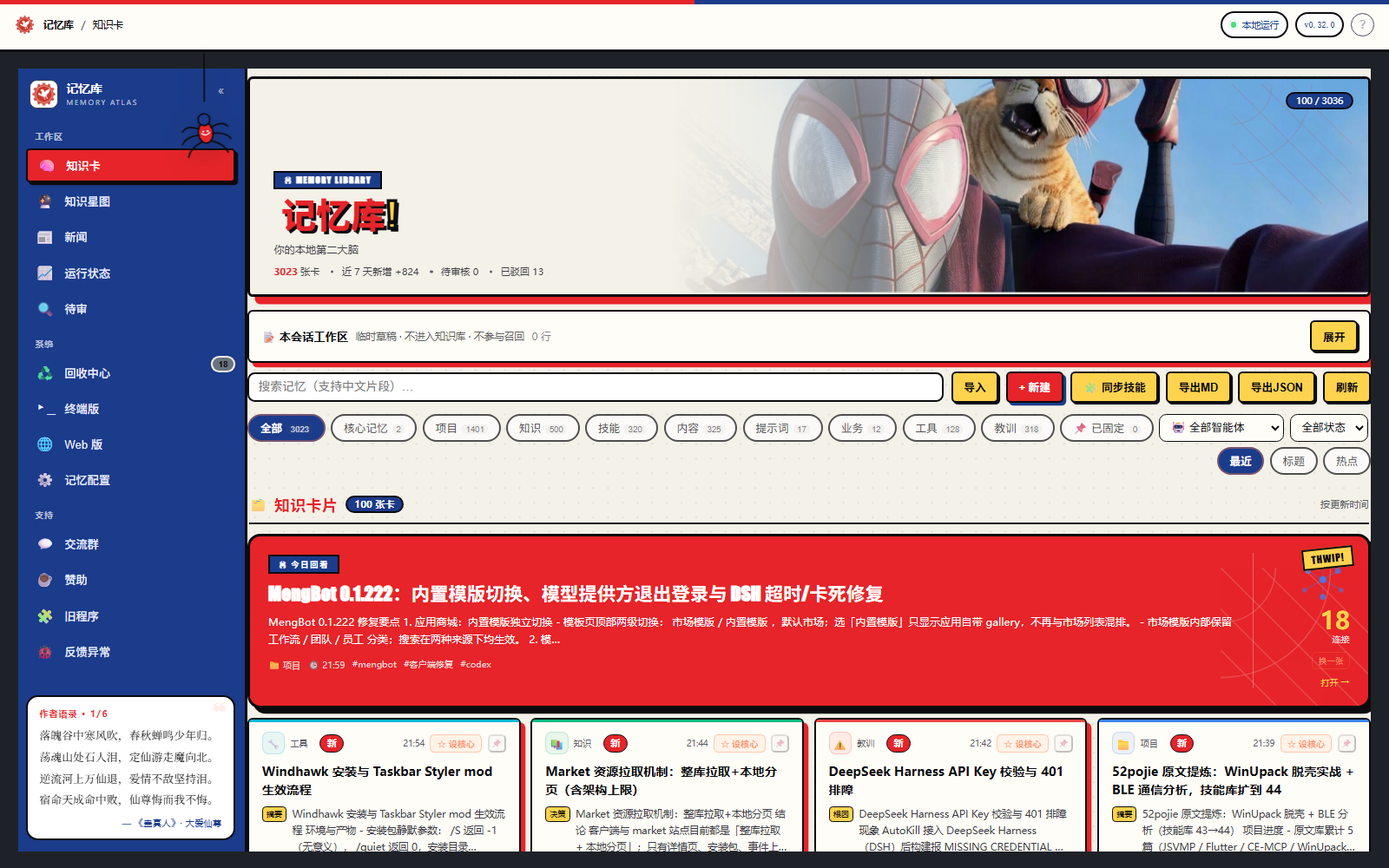
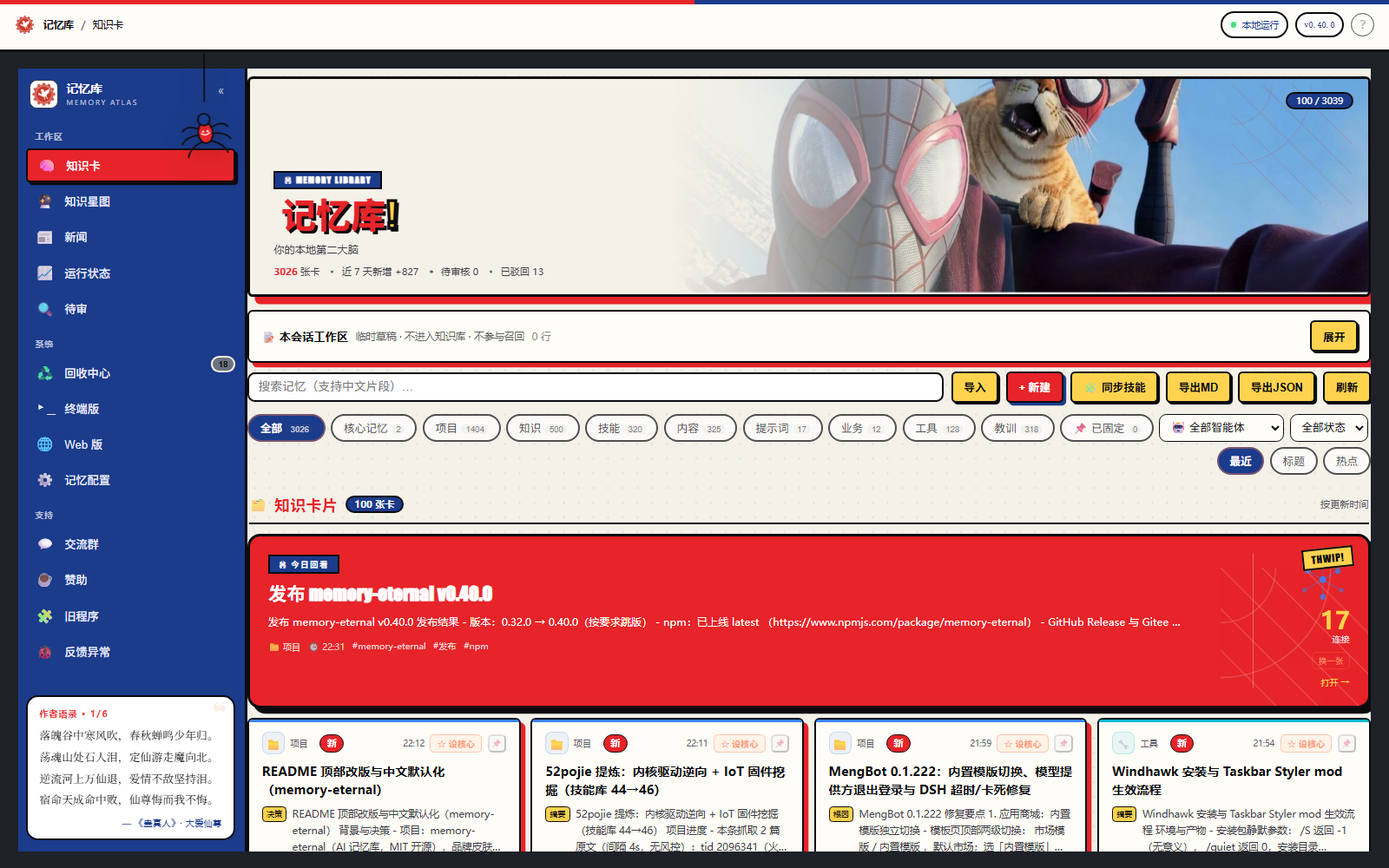
fix(watchdog): 版本一致但看门狗丢失时自动补托管 (#63) + v0.40.1

diff --git a/lib/client.js b/lib/client.js
@@ -2120,7 +2120,7 @@ Option A, because:
 [data-skin="light"] .mc-v5-star:hover, [data-skin="light"] .mc-v5-help:hover { color: #b91c1c; border-color: #cfcfca; }
 [data-skin="pop"] .mc-v5-star:hover, [data-skin="pop"] .mc-v5-help:hover { color: var(--pop-red); border-color: var(--pop-ink); }
 
-`;function Yo(a){a.effect(()=>a.locale.register(dt,{zh:ao,en:to}),"memory-eternal: locale");let t=a.locale.bind(dt);a.effect(()=>a.slots.inject("settings.section",()=>a.slots.register({name:"settings.section",id:dt,order:25,label:()=>t("nav"),locale:dt,inject:()=>({})},()=>r.default.createElement(ar,{t}))),"memory-eternal: settings section"),a.effect(()=>a.slots.inject("sidebar.footer.action",()=>a.slots.register({name:"sidebar.footer.action",id:`${dt}:footer`,order:100,label:()=>t("nav"),locale:dt,inject:()=>({})},n=>r.default.createElement(tr,{t,locale:a.locale,wide:!(n&&n.wide===!1)}))),"memory-eternal: sidebar footer action")}function er(){let[a,t]=(0,r.useState)(Q+"/ui/app");return(0,r.useEffect)(()=>{let n=!0,s=()=>fetch("/memory-eternal/api/web-info").then(i=>i.json()).then(i=>{n&&i&&i.ok&&i.alive!==!1&&i.url&&t(i.url.endsWith("/")?i.url:i.url+"/")}).catch(()=>{});return fetch(Q+"/ui/app",{method:"HEAD"}).then(i=>{if(n&&!i.ok)return s()}).catch(()=>n?s():void 0),()=>{n=!1}},[]),a}function ar({t:a}){return(0,e.jsxs)("div",{style:{display:"flex",flexDirection:"column",height:"100%",minHeight:0},children:[(0,e.jsx)("style",{children:va}),(0,e.jsx)(ro,{t:a,onReload:()=>{},version:0})]})}function tr({t:a,locale:t,wide:n}){let[s,i]=(0,r.useState)(!1);return(0,e.jsxs)("div",{className:`me-footer${n?"":" rail"}`,children:[(0,e.jsx)("style",{children:va}),(0,e.jsxs)("button",{type:"button",className:"me-footer-btn",onClick:()=>i(!0),"aria-label":a("nav"),title:a("nav"),children:[(0,e.jsx)("span",{className:"me-footer-ico","aria-hidden":"true",children:(0,e.jsx)(sr,{})}),(0,e.jsx)("span",{className:"me-footer-label",children:a("nav")})]}),s&&(0,e.jsx)(ir,{t:a,locale:t,onClose:()=>i(!1)})]})}function nr(){return(0,e.jsx)("svg",{viewBox:"0 0 16 16",fill:"none",stroke:"currentColor",strokeWidth:"1.4","aria-hidden":"true",children:(0,e.jsx)("rect",{x:"2.9",y:"2.9",width:"10.2",height:"10.2",rx:"1.7"})})}function or(){return(0,e.jsxs)("svg",{viewBox:"0 0 16 16",fill:"none",stroke:"currentColor",strokeWidth:"1.4","aria-hidden":"true",children:[(0,e.jsx)("rect",{x:"2.6",y:"5.4",width:"8",height:"8",rx:"1.5"}),(0,e.jsx)("path",{d:"M5.6 5.4V4.1c0-.9.7-1.6 1.6-1.6h4.7c.9 0 1.6.7 1.6 1.6v4.7c0 .9-.7 1.6-1.6 1.6h-1.3"})]})}function rr(){return(0,e.jsx)("svg",{viewBox:"0 0 16 16",fill:"none",stroke:"currentColor",strokeWidth:"1.4",strokeLinecap:"round","aria-hidden":"true",children:(0,e.jsx)("path",{d:"M3.9 3.9l8.2 8.2M12.1 3.9l-8.2 8.2"})})}function ir({t:a,locale:t,onClose:n,tab:s}){let[i,g]=(0,r.useState)(!1),[h,w]=(0,r.useState)(!1),x=(0,r.useRef)(null),N=er(),c=(0,r.useCallback)(T=>t&&typeof t.subscribe=="function"?t.subscribe(T):()=>{},[t]),y=(0,r.useCallback)(()=>t&&typeof t.getSnapshot=="function"?t.getSnapshot():null,[t]),k=(0,r.useSyncExternalStore)(c,y),M=k&&(k.active==="zh"||k.active==="en")?k.active:null,j=(0,r.useRef)(null);j.current===null&&M&&(j.current=M);let W=(0,r.useMemo)(()=>{let T=j.current?`lang=${j.current}`:"";if(s==="config")return`${Q}/ui/config?tab=config${T?`&${T}`:""}`;let B=N.replace(/\/$/,""),P=B.endsWith("/ui/app")?"?":"/?";return s?`${B}${P}tab=${s}${T?`&${T}`:""}`:T?`${B}${P}${T}`:N},[N,s]);(0,r.useEffect)(()=>{let T=x.current&&x.current.contentWindow;T&&M&&T.postMessage({source:"memory-eternal",type:"locale",lang:M},"*")},[M]),(0,r.useEffect)(()=>{let T=B=>{B.key==="Escape"&&n()};return window.addEventListener("keydown",T),()=>window.removeEventListener("keydown",T)},[n]);let q=(0,e.jsxs)("div",{className:"me-overlay-top",onClick:n,children:[(0,e.jsx)("style",{children:va}),(0,e.jsx)("div",{className:"me-modal"+(i?" me-modal-full":""),onClick:T=>T.stopPropagation(),children:(0,e.jsxs)("div",{style:{display:"flex",flexDirection:"column",height:"100%",minHeight:0,position:"relative"},children:[(0,e.jsxs)("div",{className:"me-wctl",children:[(0,e.jsx)("button",{type:"button",className:"me-wctl-btn","data-me-wctl":i?"restore":"full","aria-pressed":i,onClick:()=>g(T=>!T),"aria-label":a(i?"exitFullscreen":"enterFullscreen"),title:a(i?"exitFullscreen":"enterFullscreen"),children:i?(0,e.jsx)(or,{}):(0,e.jsx)(nr,{})}),(0,e.jsx)("button",{type:"button",className:"me-wctl-btn me-wctl-close","data-me-wctl":"close",onClick:n,"aria-label":a("close"),title:a("close"),children:(0,e.jsx)(rr,{})})]}),(0,e.jsx)("iframe",{ref:x,src:W,title:"memory-eternal",allow:"clipboard-write; clipboard-read",onLoad:()=>w(!0),style:{width:"100%",flex:1,border:0,borderRadius:"inherit",background:"transparent"}}),!h&&(0,e.jsxs)("div",{className:"me-frame-boot",role:"status","aria-live":"polite",children:[(0,e.jsx)(yt,{}),(0,e.jsx)("span",{className:"me-loading-text",children:a("loading")})]})]})})]});return typeof document>"u"?q:(0,eo.createPortal)(q,document.body)}function sr(){return(0,e.jsxs)("svg",{viewBox:"0 0 24 24","aria-hidden":"true",children:[(0,e.jsx)("defs",{children:(0,e.jsxs)("linearGradient",{id:"mg-brain",x1:"0",y1:"0",x2:"1",y2:"1",children:[(0,e.jsx)("stop",{offset:"0%",stopColor:"#FFC46B"}),(0,e.jsx)("stop",{offset:"50%",stopColor:"#F97316"}),(0,e.jsx)("stop",{offset:"100%",stopColor:"#EA580C"})]})}),(0,e.jsx)("path",{fill:"url(#mg-brain)",d:"M12 4.5a3.2 3.2 0 0 0-6.4.1 4.1 4.1 0 0 0-2.7 5.9 4.1 4.1 0 0 0 .6 6.7A4.2 4.2 0 0 0 12 18.2Z"}),(0,e.jsx)("path",{fill:"url(#mg-brain)",d:"M12 4.5a3.2 3.2 0 0 1 6.4.1 4.1 4.1 0 0 1 2.7 5.9 4.1 4.1 0 0 1-.6 6.7A4.2 4.2 0 0 1 12 18.2Z"}),(0,e.jsx)("path",{d:"M12 9.2c-.8-1.4-1.7-2-3.1-2.2M12 9.2c.8-1.4 1.7-2 3.1-2.2M12 12.4c-1.2 1-3.2 1.6-5 1.4M12 12.4c1.2 1 3.2 1.6 5 1.4M12 13.2v4",fill:"none",stroke:"rgba(255,255,255,0.62)",strokeWidth:"1",strokeLinecap:"round"}),(0,e.jsx)("circle",{cx:"12",cy:"8.6",r:"1.1",fill:"rgba(255,255,255,0.85)"})]})}var ct="0.40.0";function lr({t:a}){let[t,n]=(0,r.useState)(""),s="dsh-memory tui",i="dsh-memory tui --write",g=async(N,c)=>{try{await navigator.clipboard.writeText(N),n(c),setTimeout(()=>n(""),1600)}catch{}},h={border:"1px solid #3a404a",borderRadius:14,background:"#22262d",padding:"16px 18px"},w={margin:"10px 0 0",padding:"12px 14px",borderRadius:10,background:"#171a1f",border:"1px solid #333943",color:"#f3f5f8",fontSize:12.5,lineHeight:1.7,overflowX:"auto",fontFamily:"ui-monospace, Consolas, monospace"},x={marginTop:10,border:"1px solid #4a515c",background:"transparent",color:"#ffb08a",borderRadius:9,padding:"7px 12px",fontSize:12,cursor:"pointer"};return(0,e.jsxs)("div",{className:"mc-term-guide",style:{padding:"22px 26px 34px",maxWidth:1040,color:"#f3f5f8"},children:[(0,e.jsxs)("div",{style:{display:"flex",alignItems:"baseline",gap:12,flexWrap:"wrap"},children:[(0,e.jsx)("h2",{style:{margin:0,fontSize:24,letterSpacing:"-.02em"},children:a("terminalTitle")}),(0,e.jsx)("span",{style:{color:"#99a1ac",fontSize:12},children:"TUI \xB7 LIVE \xB7 dsh-tui"})]}),(0,e.jsx)("p",{style:{margin:"9px 0 20px",color:"#aeb5bf",fontSize:13.5,lineHeight:1.8},children:a("terminalIntro")}),(0,e.jsxs)("div",{className:"mc-term-grid",style:{display:"grid",gridTemplateColumns:"minmax(0, 1.1fr) minmax(0, .9fr)",gap:14},children:[(0,e.jsxs)("div",{className:"mc-term-card",style:h,children:[(0,e.jsxs)("div",{style:{fontSize:13,fontWeight:700},children:["\u25B8 ",a("terminalRun")]}),(0,e.jsx)("pre",{className:"mc-term-code",style:w,children:s}),(0,e.jsx)("button",{type:"button",className:"mc-term-btn",style:x,onClick:()=>g(s,"run"),children:t==="run"?"\u2713 "+a("terminalCopied"):"\u29C9 "+a("terminalCopy")}),(0,e.jsxs)("div",{style:{marginTop:12,color:"#99a1ac",fontSize:12,lineHeight:1.7},children:["\u9ED8\u8BA4\u8BFB\u53D6\u771F\u5B9E\u8BB0\u5FC6\u5E93\u4E0E\u5F85\u5BA1\u961F\u5217\uFF1B\u53EA\u8BFB\uFF0C\u786E\u8BA4\u540E\u624D\u7528 `--write`\u3002\u793A\u4F8B\u6570\u636E\u7528 `--demo`\u3002",(0,e.jsx)("br",{}),"\u6CA1\u6709 `dsh-memory` \u547D\u4EE4\u65F6\uFF1A`npx -p memory-eternal dsh-memory tui`"]})]}),(0,e.jsxs)("div",{className:"mc-term-card",style:h,children:[(0,e.jsxs)("div",{style:{fontSize:13,fontWeight:700},children:["\u25B8 ",a("terminalTui")]}),(0,e.jsx)("pre",{className:"mc-term-code",style:w,children:i}),(0,e.jsx)("button",{type:"button",className:"mc-term-btn",style:x,onClick:()=>g(i,"tui"),children:t==="tui"?"\u2713 "+a("terminalCopied"):"\u29C9 "+a("terminalCopy")}),(0,e.jsx)("div",{style:{marginTop:12,color:"#99a1ac",fontSize:12,lineHeight:1.7},children:"\u771F\u5B9E\u6279\u51C6/\u9A73\u56DE\uFF1B\u4E0D\u786E\u5B9A\u65F6\u5148\u7528\u53EA\u8BFB\u6A21\u5F0F\u3002"})]})]}),(0,e.jsxs)("div",{className:"mc-term-card",style:{...h,marginTop:14},children:[(0,e.jsxs)("div",{style:{fontSize:13,fontWeight:700},children:["\u25B8 ",a("terminalPreview")]}),(0,e.jsx)("pre",{className:"mc-term-code mc-term-preview",style:{...w,marginTop:10,color:"#d7dce3",fontSize:12,lineHeight:1.5},children:`\u256D\u2500 MEMORY ATLAS / \u5F85\u5BA1 \u2500\u2500\u2500\u2500\u2500\u2500\u2500\u2500\u2500\u2500\u2500\u2500\u2500\u2500\u2500\u2500\u2500\u2500\u2500\u2500\u2500\u2500\u2500\u2500\u2500\u2500\u2500\u2500\u2500\u256E
+`;function Yo(a){a.effect(()=>a.locale.register(dt,{zh:ao,en:to}),"memory-eternal: locale");let t=a.locale.bind(dt);a.effect(()=>a.slots.inject("settings.section",()=>a.slots.register({name:"settings.section",id:dt,order:25,label:()=>t("nav"),locale:dt,inject:()=>({})},()=>r.default.createElement(ar,{t}))),"memory-eternal: settings section"),a.effect(()=>a.slots.inject("sidebar.footer.action",()=>a.slots.register({name:"sidebar.footer.action",id:`${dt}:footer`,order:100,label:()=>t("nav"),locale:dt,inject:()=>({})},n=>r.default.createElement(tr,{t,locale:a.locale,wide:!(n&&n.wide===!1)}))),"memory-eternal: sidebar footer action")}function er(){let[a,t]=(0,r.useState)(Q+"/ui/app");return(0,r.useEffect)(()=>{let n=!0,s=()=>fetch("/memory-eternal/api/web-info").then(i=>i.json()).then(i=>{n&&i&&i.ok&&i.alive!==!1&&i.url&&t(i.url.endsWith("/")?i.url:i.url+"/")}).catch(()=>{});return fetch(Q+"/ui/app",{method:"HEAD"}).then(i=>{if(n&&!i.ok)return s()}).catch(()=>n?s():void 0),()=>{n=!1}},[]),a}function ar({t:a}){return(0,e.jsxs)("div",{style:{display:"flex",flexDirection:"column",height:"100%",minHeight:0},children:[(0,e.jsx)("style",{children:va}),(0,e.jsx)(ro,{t:a,onReload:()=>{},version:0})]})}function tr({t:a,locale:t,wide:n}){let[s,i]=(0,r.useState)(!1);return(0,e.jsxs)("div",{className:`me-footer${n?"":" rail"}`,children:[(0,e.jsx)("style",{children:va}),(0,e.jsxs)("button",{type:"button",className:"me-footer-btn",onClick:()=>i(!0),"aria-label":a("nav"),title:a("nav"),children:[(0,e.jsx)("span",{className:"me-footer-ico","aria-hidden":"true",children:(0,e.jsx)(sr,{})}),(0,e.jsx)("span",{className:"me-footer-label",children:a("nav")})]}),s&&(0,e.jsx)(ir,{t:a,locale:t,onClose:()=>i(!1)})]})}function nr(){return(0,e.jsx)("svg",{viewBox:"0 0 16 16",fill:"none",stroke:"currentColor",strokeWidth:"1.4","aria-hidden":"true",children:(0,e.jsx)("rect",{x:"2.9",y:"2.9",width:"10.2",height:"10.2",rx:"1.7"})})}function or(){return(0,e.jsxs)("svg",{viewBox:"0 0 16 16",fill:"none",stroke:"currentColor",strokeWidth:"1.4","aria-hidden":"true",children:[(0,e.jsx)("rect",{x:"2.6",y:"5.4",width:"8",height:"8",rx:"1.5"}),(0,e.jsx)("path",{d:"M5.6 5.4V4.1c0-.9.7-1.6 1.6-1.6h4.7c.9 0 1.6.7 1.6 1.6v4.7c0 .9-.7 1.6-1.6 1.6h-1.3"})]})}function rr(){return(0,e.jsx)("svg",{viewBox:"0 0 16 16",fill:"none",stroke:"currentColor",strokeWidth:"1.4",strokeLinecap:"round","aria-hidden":"true",children:(0,e.jsx)("path",{d:"M3.9 3.9l8.2 8.2M12.1 3.9l-8.2 8.2"})})}function ir({t:a,locale:t,onClose:n,tab:s}){let[i,g]=(0,r.useState)(!1),[h,w]=(0,r.useState)(!1),x=(0,r.useRef)(null),N=er(),c=(0,r.useCallback)(T=>t&&typeof t.subscribe=="function"?t.subscribe(T):()=>{},[t]),y=(0,r.useCallback)(()=>t&&typeof t.getSnapshot=="function"?t.getSnapshot():null,[t]),k=(0,r.useSyncExternalStore)(c,y),M=k&&(k.active==="zh"||k.active==="en")?k.active:null,j=(0,r.useRef)(null);j.current===null&&M&&(j.current=M);let W=(0,r.useMemo)(()=>{let T=j.current?`lang=${j.current}`:"";if(s==="config")return`${Q}/ui/config?tab=config${T?`&${T}`:""}`;let B=N.replace(/\/$/,""),P=B.endsWith("/ui/app")?"?":"/?";return s?`${B}${P}tab=${s}${T?`&${T}`:""}`:T?`${B}${P}${T}`:N},[N,s]);(0,r.useEffect)(()=>{let T=x.current&&x.current.contentWindow;T&&M&&T.postMessage({source:"memory-eternal",type:"locale",lang:M},"*")},[M]),(0,r.useEffect)(()=>{let T=B=>{B.key==="Escape"&&n()};return window.addEventListener("keydown",T),()=>window.removeEventListener("keydown",T)},[n]);let q=(0,e.jsxs)("div",{className:"me-overlay-top",onClick:n,children:[(0,e.jsx)("style",{children:va}),(0,e.jsx)("div",{className:"me-modal"+(i?" me-modal-full":""),onClick:T=>T.stopPropagation(),children:(0,e.jsxs)("div",{style:{display:"flex",flexDirection:"column",height:"100%",minHeight:0,position:"relative"},children:[(0,e.jsxs)("div",{className:"me-wctl",children:[(0,e.jsx)("button",{type:"button",className:"me-wctl-btn","data-me-wctl":i?"restore":"full","aria-pressed":i,onClick:()=>g(T=>!T),"aria-label":a(i?"exitFullscreen":"enterFullscreen"),title:a(i?"exitFullscreen":"enterFullscreen"),children:i?(0,e.jsx)(or,{}):(0,e.jsx)(nr,{})}),(0,e.jsx)("button",{type:"button",className:"me-wctl-btn me-wctl-close","data-me-wctl":"close",onClick:n,"aria-label":a("close"),title:a("close"),children:(0,e.jsx)(rr,{})})]}),(0,e.jsx)("iframe",{ref:x,src:W,title:"memory-eternal",allow:"clipboard-write; clipboard-read",onLoad:()=>w(!0),style:{width:"100%",flex:1,border:0,borderRadius:"inherit",background:"transparent"}}),!h&&(0,e.jsxs)("div",{className:"me-frame-boot",role:"status","aria-live":"polite",children:[(0,e.jsx)(yt,{}),(0,e.jsx)("span",{className:"me-loading-text",children:a("loading")})]})]})})]});return typeof document>"u"?q:(0,eo.createPortal)(q,document.body)}function sr(){return(0,e.jsxs)("svg",{viewBox:"0 0 24 24","aria-hidden":"true",children:[(0,e.jsx)("defs",{children:(0,e.jsxs)("linearGradient",{id:"mg-brain",x1:"0",y1:"0",x2:"1",y2:"1",children:[(0,e.jsx)("stop",{offset:"0%",stopColor:"#FFC46B"}),(0,e.jsx)("stop",{offset:"50%",stopColor:"#F97316"}),(0,e.jsx)("stop",{offset:"100%",stopColor:"#EA580C"})]})}),(0,e.jsx)("path",{fill:"url(#mg-brain)",d:"M12 4.5a3.2 3.2 0 0 0-6.4.1 4.1 4.1 0 0 0-2.7 5.9 4.1 4.1 0 0 0 .6 6.7A4.2 4.2 0 0 0 12 18.2Z"}),(0,e.jsx)("path",{fill:"url(#mg-brain)",d:"M12 4.5a3.2 3.2 0 0 1 6.4.1 4.1 4.1 0 0 1 2.7 5.9 4.1 4.1 0 0 1-.6 6.7A4.2 4.2 0 0 1 12 18.2Z"}),(0,e.jsx)("path",{d:"M12 9.2c-.8-1.4-1.7-2-3.1-2.2M12 9.2c.8-1.4 1.7-2 3.1-2.2M12 12.4c-1.2 1-3.2 1.6-5 1.4M12 12.4c1.2 1 3.2 1.6 5 1.4M12 13.2v4",fill:"none",stroke:"rgba(255,255,255,0.62)",strokeWidth:"1",strokeLinecap:"round"}),(0,e.jsx)("circle",{cx:"12",cy:"8.6",r:"1.1",fill:"rgba(255,255,255,0.85)"})]})}var ct="0.40.1";function lr({t:a}){let[t,n]=(0,r.useState)(""),s="dsh-memory tui",i="dsh-memory tui --write",g=async(N,c)=>{try{await navigator.clipboard.writeText(N),n(c),setTimeout(()=>n(""),1600)}catch{}},h={border:"1px solid #3a404a",borderRadius:14,background:"#22262d",padding:"16px 18px"},w={margin:"10px 0 0",padding:"12px 14px",borderRadius:10,background:"#171a1f",border:"1px solid #333943",color:"#f3f5f8",fontSize:12.5,lineHeight:1.7,overflowX:"auto",fontFamily:"ui-monospace, Consolas, monospace"},x={marginTop:10,border:"1px solid #4a515c",background:"transparent",color:"#ffb08a",borderRadius:9,padding:"7px 12px",fontSize:12,cursor:"pointer"};return(0,e.jsxs)("div",{className:"mc-term-guide",style:{padding:"22px 26px 34px",maxWidth:1040,color:"#f3f5f8"},children:[(0,e.jsxs)("div",{style:{display:"flex",alignItems:"baseline",gap:12,flexWrap:"wrap"},children:[(0,e.jsx)("h2",{style:{margin:0,fontSize:24,letterSpacing:"-.02em"},children:a("terminalTitle")}),(0,e.jsx)("span",{style:{color:"#99a1ac",fontSize:12},children:"TUI \xB7 LIVE \xB7 dsh-tui"})]}),(0,e.jsx)("p",{style:{margin:"9px 0 20px",color:"#aeb5bf",fontSize:13.5,lineHeight:1.8},children:a("terminalIntro")}),(0,e.jsxs)("div",{className:"mc-term-grid",style:{display:"grid",gridTemplateColumns:"minmax(0, 1.1fr) minmax(0, .9fr)",gap:14},children:[(0,e.jsxs)("div",{className:"mc-term-card",style:h,children:[(0,e.jsxs)("div",{style:{fontSize:13,fontWeight:700},children:["\u25B8 ",a("terminalRun")]}),(0,e.jsx)("pre",{className:"mc-term-code",style:w,children:s}),(0,e.jsx)("button",{type:"button",className:"mc-term-btn",style:x,onClick:()=>g(s,"run"),children:t==="run"?"\u2713 "+a("terminalCopied"):"\u29C9 "+a("terminalCopy")}),(0,e.jsxs)("div",{style:{marginTop:12,color:"#99a1ac",fontSize:12,lineHeight:1.7},children:["\u9ED8\u8BA4\u8BFB\u53D6\u771F\u5B9E\u8BB0\u5FC6\u5E93\u4E0E\u5F85\u5BA1\u961F\u5217\uFF1B\u53EA\u8BFB\uFF0C\u786E\u8BA4\u540E\u624D\u7528 `--write`\u3002\u793A\u4F8B\u6570\u636E\u7528 `--demo`\u3002",(0,e.jsx)("br",{}),"\u6CA1\u6709 `dsh-memory` \u547D\u4EE4\u65F6\uFF1A`npx -p memory-eternal dsh-memory tui`"]})]}),(0,e.jsxs)("div",{className:"mc-term-card",style:h,children:[(0,e.jsxs)("div",{style:{fontSize:13,fontWeight:700},children:["\u25B8 ",a("terminalTui")]}),(0,e.jsx)("pre",{className:"mc-term-code",style:w,children:i}),(0,e.jsx)("button",{type:"button",className:"mc-term-btn",style:x,onClick:()=>g(i,"tui"),children:t==="tui"?"\u2713 "+a("terminalCopied"):"\u29C9 "+a("terminalCopy")}),(0,e.jsx)("div",{style:{marginTop:12,color:"#99a1ac",fontSize:12,lineHeight:1.7},children:"\u771F\u5B9E\u6279\u51C6/\u9A73\u56DE\uFF1B\u4E0D\u786E\u5B9A\u65F6\u5148\u7528\u53EA\u8BFB\u6A21\u5F0F\u3002"})]})]}),(0,e.jsxs)("div",{className:"mc-term-card",style:{...h,marginTop:14},children:[(0,e.jsxs)("div",{style:{fontSize:13,fontWeight:700},children:["\u25B8 ",a("terminalPreview")]}),(0,e.jsx)("pre",{className:"mc-term-code mc-term-preview",style:{...w,marginTop:10,color:"#d7dce3",fontSize:12,lineHeight:1.5},children:`\u256D\u2500 MEMORY ATLAS / \u5F85\u5BA1 \u2500\u2500\u2500\u2500\u2500\u2500\u2500\u2500\u2500\u2500\u2500\u2500\u2500\u2500\u2500\u2500\u2500\u2500\u2500\u2500\u2500\u2500\u2500\u2500\u2500\u2500\u2500\u2500\u2500\u256E
 \u2502  \u7C7B\u578B  \u25CF \u5168\u90E8 7   \u25CB \u9879\u76EE 3   \u25CB \u77E5\u8BC6 1   \u25CB \u6559\u8BAD 1  \u2502
 \u2502                                                    \u2502
 \u2502  \u25A3 \u5168\u9009 7    \u5DF2\u9009 3     s \u5168\u9009                     \u2502

diff --git a/web/app.js b/web/app.js
@@ -2122,7 +2122,7 @@ Option A, because:
 [data-skin="light"] .mc-v5-star:hover, [data-skin="light"] .mc-v5-help:hover { color: #b91c1c; border-color: #cfcfca; }
 [data-skin="pop"] .mc-v5-star:hover, [data-skin="pop"] .mc-v5-help:hover { color: var(--pop-red); border-color: var(--pop-ink); }
 
-`;var Wr="0.40.0";function wv({t:e}){let[t,n]=(0,p.useState)(""),r="dsh-memory tui",o="dsh-memory tui --write",i=async(m,u)=>{try{await navigator.clipboard.writeText(m),n(u),setTimeout(()=>n(""),1600)}catch{}},s={border:"1px solid #3a404a",borderRadius:14,background:"#22262d",padding:"16px 18px"},l={margin:"10px 0 0",padding:"12px 14px",borderRadius:10,background:"#171a1f",border:"1px solid #333943",color:"#f3f5f8",fontSize:12.5,lineHeight:1.7,overflowX:"auto",fontFamily:"ui-monospace, Consolas, monospace"},d={marginTop:10,border:"1px solid #4a515c",background:"transparent",color:"#ffb08a",borderRadius:9,padding:"7px 12px",fontSize:12,cursor:"pointer"};return(0,a.jsxs)("div",{className:"mc-term-guide",style:{padding:"22px 26px 34px",maxWidth:1040,color:"#f3f5f8"},children:[(0,a.jsxs)("div",{style:{display:"flex",alignItems:"baseline",gap:12,flexWrap:"wrap"},children:[(0,a.jsx)("h2",{style:{margin:0,fontSize:24,letterSpacing:"-.02em"},children:e("terminalTitle")}),(0,a.jsx)("span",{style:{color:"#99a1ac",fontSize:12},children:"TUI \xB7 LIVE \xB7 dsh-tui"})]}),(0,a.jsx)("p",{style:{margin:"9px 0 20px",color:"#aeb5bf",fontSize:13.5,lineHeight:1.8},children:e("terminalIntro")}),(0,a.jsxs)("div",{className:"mc-term-grid",style:{display:"grid",gridTemplateColumns:"minmax(0, 1.1fr) minmax(0, .9fr)",gap:14},children:[(0,a.jsxs)("div",{className:"mc-term-card",style:s,children:[(0,a.jsxs)("div",{style:{fontSize:13,fontWeight:700},children:["\u25B8 ",e("terminalRun")]}),(0,a.jsx)("pre",{className:"mc-term-code",style:l,children:r}),(0,a.jsx)("button",{type:"button",className:"mc-term-btn",style:d,onClick:()=>i(r,"run"),children:t==="run"?"\u2713 "+e("terminalCopied"):"\u29C9 "+e("terminalCopy")}),(0,a.jsxs)("div",{style:{marginTop:12,color:"#99a1ac",fontSize:12,lineHeight:1.7},children:["\u9ED8\u8BA4\u8BFB\u53D6\u771F\u5B9E\u8BB0\u5FC6\u5E93\u4E0E\u5F85\u5BA1\u961F\u5217\uFF1B\u53EA\u8BFB\uFF0C\u786E\u8BA4\u540E\u624D\u7528 `--write`\u3002\u793A\u4F8B\u6570\u636E\u7528 `--demo`\u3002",(0,a.jsx)("br",{}),"\u6CA1\u6709 `dsh-memory` \u547D\u4EE4\u65F6\uFF1A`npx -p memory-eternal dsh-memory tui`"]})]}),(0,a.jsxs)("div",{className:"mc-term-card",style:s,children:[(0,a.jsxs)("div",{style:{fontSize:13,fontWeight:700},children:["\u25B8 ",e("terminalTui")]}),(0,a.jsx)("pre",{className:"mc-term-code",style:l,children:o}),(0,a.jsx)("button",{type:"button",className:"mc-term-btn",style:d,onClick:()=>i(o,"tui"),children:t==="tui"?"\u2713 "+e("terminalCopied"):"\u29C9 "+e("terminalCopy")}),(0,a.jsx)("div",{style:{marginTop:12,color:"#99a1ac",fontSize:12,lineHeight:1.7},children:"\u771F\u5B9E\u6279\u51C6/\u9A73\u56DE\uFF1B\u4E0D\u786E\u5B9A\u65F6\u5148\u7528\u53EA\u8BFB\u6A21\u5F0F\u3002"})]})]}),(0,a.jsxs)("div",{className:"mc-term-card",style:{...s,marginTop:14},children:[(0,a.jsxs)("div",{style:{fontSize:13,fontWeight:700},children:["\u25B8 ",e("terminalPreview")]}),(0,a.jsx)("pre",{className:"mc-term-code mc-term-preview",style:{...l,marginTop:10,color:"#d7dce3",fontSize:12,lineHeight:1.5},children:`\u256D\u2500 MEMORY ATLAS / \u5F85\u5BA1 \u2500\u2500\u2500\u2500\u2500\u2500\u2500\u2500\u2500\u2500\u2500\u2500\u2500\u2500\u2500\u2500\u2500\u2500\u2500\u2500\u2500\u2500\u2500\u2500\u2500\u2500\u2500\u2500\u2500\u256E
+`;var Wr="0.40.1";function wv({t:e}){let[t,n]=(0,p.useState)(""),r="dsh-memory tui",o="dsh-memory tui --write",i=async(m,u)=>{try{await navigator.clipboard.writeText(m),n(u),setTimeout(()=>n(""),1600)}catch{}},s={border:"1px solid #3a404a",borderRadius:14,background:"#22262d",padding:"16px 18px"},l={margin:"10px 0 0",padding:"12px 14px",borderRadius:10,background:"#171a1f",border:"1px solid #333943",color:"#f3f5f8",fontSize:12.5,lineHeight:1.7,overflowX:"auto",fontFamily:"ui-monospace, Consolas, monospace"},d={marginTop:10,border:"1px solid #4a515c",background:"transparent",color:"#ffb08a",borderRadius:9,padding:"7px 12px",fontSize:12,cursor:"pointer"};return(0,a.jsxs)("div",{className:"mc-term-guide",style:{padding:"22px 26px 34px",maxWidth:1040,color:"#f3f5f8"},children:[(0,a.jsxs)("div",{style:{display:"flex",alignItems:"baseline",gap:12,flexWrap:"wrap"},children:[(0,a.jsx)("h2",{style:{margin:0,fontSize:24,letterSpacing:"-.02em"},children:e("terminalTitle")}),(0,a.jsx)("span",{style:{color:"#99a1ac",fontSize:12},children:"TUI \xB7 LIVE \xB7 dsh-tui"})]}),(0,a.jsx)("p",{style:{margin:"9px 0 20px",color:"#aeb5bf",fontSize:13.5,lineHeight:1.8},children:e("terminalIntro")}),(0,a.jsxs)("div",{className:"mc-term-grid",style:{display:"grid",gridTemplateColumns:"minmax(0, 1.1fr) minmax(0, .9fr)",gap:14},children:[(0,a.jsxs)("div",{className:"mc-term-card",style:s,children:[(0,a.jsxs)("div",{style:{fontSize:13,fontWeight:700},children:["\u25B8 ",e("terminalRun")]}),(0,a.jsx)("pre",{className:"mc-term-code",style:l,children:r}),(0,a.jsx)("button",{type:"button",className:"mc-term-btn",style:d,onClick:()=>i(r,"run"),children:t==="run"?"\u2713 "+e("terminalCopied"):"\u29C9 "+e("terminalCopy")}),(0,a.jsxs)("div",{style:{marginTop:12,color:"#99a1ac",fontSize:12,lineHeight:1.7},children:["\u9ED8\u8BA4\u8BFB\u53D6\u771F\u5B9E\u8BB0\u5FC6\u5E93\u4E0E\u5F85\u5BA1\u961F\u5217\uFF1B\u53EA\u8BFB\uFF0C\u786E\u8BA4\u540E\u624D\u7528 `--write`\u3002\u793A\u4F8B\u6570\u636E\u7528 `--demo`\u3002",(0,a.jsx)("br",{}),"\u6CA1\u6709 `dsh-memory` \u547D\u4EE4\u65F6\uFF1A`npx -p memory-eternal dsh-memory tui`"]})]}),(0,a.jsxs)("div",{className:"mc-term-card",style:s,children:[(0,a.jsxs)("div",{style:{fontSize:13,fontWeight:700},children:["\u25B8 ",e("terminalTui")]}),(0,a.jsx)("pre",{className:"mc-term-code",style:l,children:o}),(0,a.jsx)("button",{type:"button",className:"mc-term-btn",style:d,onClick:()=>i(o,"tui"),children:t==="tui"?"\u2713 "+e("terminalCopied"):"\u29C9 "+e("terminalCopy")}),(0,a.jsx)("div",{style:{marginTop:12,color:"#99a1ac",fontSize:12,lineHeight:1.7},children:"\u771F\u5B9E\u6279\u51C6/\u9A73\u56DE\uFF1B\u4E0D\u786E\u5B9A\u65F6\u5148\u7528\u53EA\u8BFB\u6A21\u5F0F\u3002"})]})]}),(0,a.jsxs)("div",{className:"mc-term-card",style:{...s,marginTop:14},children:[(0,a.jsxs)("div",{style:{fontSize:13,fontWeight:700},children:["\u25B8 ",e("terminalPreview")]}),(0,a.jsx)("pre",{className:"mc-term-code mc-term-preview",style:{...l,marginTop:10,color:"#d7dce3",fontSize:12,lineHeight:1.5},children:`\u256D\u2500 MEMORY ATLAS / \u5F85\u5BA1 \u2500\u2500\u2500\u2500\u2500\u2500\u2500\u2500\u2500\u2500\u2500\u2500\u2500\u2500\u2500\u2500\u2500\u2500\u2500\u2500\u2500\u2500\u2500\u2500\u2500\u2500\u2500\u2500\u2500\u256E
 \u2502  \u7C7B\u578B  \u25CF \u5168\u90E8 7   \u25CB \u9879\u76EE 3   \u25CB \u77E5\u8BC6 1   \u25CB \u6559\u8BAD 1  \u2502
 \u2502                                                    \u2502
 \u2502  \u25A3 \u5168\u9009 7    \u5DF2\u9009 3     s \u5168\u9009                     \u2502

diff --git a/lib/watchdog.js b/lib/watchdog.js
@@ -800,7 +800,13 @@ export function decideResidentAction({
   const s = String(served || '')
   const e = String(expect || '')
   // ① 版本一致：端口上跑的就是本机这份代码
-  if (s && e && s === e) return { action: 'delegate', stale: false, reason: 'up-to-date' }
+  //    但「版本一致」≠「有人保活」：看门狗可能被宿主退出时一起收掉（Windows Job 对象），
+  //    端口上的 web 还在服务。这时必须补一个看门狗把已有 web 纳入托管（issue #63）：
+  //    watchdog 启动时若端口已活会自动进入「保活监督（不接管）」模式，不会杀现有实例。
+  if (s && e && s === e) {
+    if (watchdogAlive) return { action: 'delegate', stale: false, reason: 'up-to-date' }
+    return { action: 'spawn', stale: false, reason: 'adopt-unmanaged' }
+  }
   // ①b 「登记说活着、端口却没人应答」(#44)：这是**僵尸看门狗**（典型原因：brew 升级 node 后
   // 它 spawn web 每次都 ENOENT，而调用方静默吞错）。绝不能 delegate —— 那正是「记忆自动沉淀
   // 静默停摆、日志里只写 delegated」的现场。交给重启流程，由助手用当前 node 重新拉起。
@@ -993,7 +999,7 @@ export async function clearResidentForTakeover({ port = 7999, env = process.env,
   if (left && left.pid) {
     out.portFree = false
     out.portState = 'occupied'
-    out.warnings.push(`端口 ${p} 仍被 pid ${left.pid} 占用（${left.command || '命令行未知'}）`)
+    out.warnings.push(`端口 ${p} 仍被 pid ${left.pid} 占用（${left.command || '命令行未知'}）—— 如果刚被收掉的进程在 5s 内换成了新 pid，多半是**另一个宿主**在 autoWeb 保活该端口（多宿主共用端口，issue #63）：在其中一台关掉 autoWeb，或给两台配不同的 webPort，然后重试`)
   } else if (left && left.unknown) {
     // 枚举器超时/不可用 —— 这是「未知」，不是「空闲」：中止接管（不杀、不漂移、不动锁）。
     out.portFree = false

diff --git a/docs/CHANGELOG.md b/docs/CHANGELOG.md
@@ -11,6 +11,7 @@
 
 | 版本 | 日期 | 关键改动 |
 |---|---|---|
+| **v0.40.1** | 2026-11-12 | **修复 #63：DSH 重启后常驻实例变 unmanaged**。① `decideResidentAction` 在「端口版本一致」时不再无条件 delegate：**看门狗已死但 web 还活着 → 返回 spawn 补一个看门狗接管**（watchdog 启动时发现端口已活会自动进入保活监督，不杀现有 web）。单宿主每次重启 DSH 后不再需要手动点「重启常驻实例」。② 多宿主替换失败时，错误信息明确提示「端口在 5s 内换新 pid，多半是另一个宿主在 autoWeb 保活」，并给出关 autoWeb / 配不同 webPort 的处理建议。 |
 | **v0.40.0** | 2026-11-12 | **语义召回正式版 + 长记忆评测 + 首次使用引导**。① 三档语义部署：内置（默认，零安装）/ 本地 Ollama bge-m3 / 在线 API；增量向量（写/改/删自动补清）。② LongMemEval-S 500 题全量实测：检索 R@5 95.4%（词法）→ **97.2%**（bge-m3），自建金标 **99.1%**、Top1 89.9%、改写题 70%。③ 噪声查询修复（语义模式剥离壳词）：noisy Top1 60→95。④ 审核中心「重新蒸馏」；蒸馏失败强制进审核。⑤ 首次使用引导：默认全开 + 三步向导（内置/Ollama/在线）+ 设置页可重看；Star/Fork 收尾。⑥ 偏好摘要：沉淀时零 LLM 抽取偏好句并打 `preference` 标签。⑦ README 改为**中文默认**（英文 README.en.md）、新增蜘蛛侠皮肤头图/组图与 Social preview、完整底层架构 mermaid、高星项目对比两表。 |
 | **v0.32.0** | 2026-11-12 | **可选语义召回 + 增量向量 + 重新蒸馏 + 改写题 80%**。① 语义召回三档部署：本地 Ollama（bge-m3）、内置语义（无向量，零安装/零网络/零费用）、在线 OpenAI 兼容；默认关闭，任一依赖缺失自动降级纯词法。② 增量向量：写卡/改卡/删卡异步补/清向量，孤儿清理；实测覆盖 2943/2943。③ 审核中心对降级原文卡新增「🔁 重新蒸馏」；蒸馏失败（无输出/不可解析）强制进审核，即使 auditMode=none。④ 同义扩展新增 6 条口语规则（乱飘/全红/卡死/访客/帮助文本/收录），改写题 R@5 50%→**80%**、R@10 60%→**90%**，无向量方案 30%→40%。⑤ 评测：109 题金标 + 10 条改写可复跑；RRF、置信门控、多查询向量、段落级向量四组实验均实测否决并记录在 bench/RESULTS.md。⑥ 蒸馏失败原因透传，不再笼统记为「无输出」。⑦ 纯词法下 AND 命中 <3 时追加一次 OR+扩展合并：R@5 95.4→97.2、R@10 98.2→100（语义模式不启用，避免 Top1 回退）。⑧ 首次使用引导：默认全开（记忆核心/自动沉淀/自动召回/核心记忆注入/工作记忆/内置语义），三步向导可选内置语义（默认）/本地 Ollama（推荐）/在线 API；设置页可「重新引导」。⑨ 偏好摘要：沉淀时零 LLM 抽取「我更喜欢/usually/prefer」等原句追加到卡尾并打 `preference` 标签；语义模式剥离噪声壳（请问/关键点/是怎么处理的），noisy Top1 60→95、总体 Top1 83.5→89.9、R@5 98.2→99.1。 |
 | **v0.31.4** | 2026-11-11 | **修复自动沉淀被“缺键”静默关掉**。① 自动沉淀/召回判断从 falsy 改为 `=== false`：配置对象缺少 `enabled/autoCapture/autoRecall` 时按默认开启处理，不再因为 undefined 直接 return。② 运行时补齐 120 字最小长度 / 60s 冷却 / 1000 日配额 / 60s 超时默认值；`/config` 同步返回默认开状态。③ 新增默认值守卫测试，覆盖「默认开」与「缺键安全」。 |

diff --git a/README.en.md b/README.en.md
@@ -18,7 +18,7 @@
 <p align="center">
   <img src="https://img.shields.io/github/stars/EternalNight996/memory-eternal?style=flat" alt="stars" />
   <img src="https://img.shields.io/npm/v/memory-eternal" alt="npm" />
-  <img src="https://img.shields.io/badge/release-v0.40.0-FF7A45" alt="release" />
+  <img src="https://img.shields.io/badge/release-v0.40.1-FF7A45" alt="release" />
   <img src="https://img.shields.io/badge/license-MIT-blue" alt="license" />
 </p>
 

diff --git a/README.md b/README.md
@@ -18,7 +18,7 @@
 <p align="center">
   <img src="https://img.shields.io/github/stars/EternalNight996/memory-eternal?style=flat" alt="stars" />
   <img src="https://img.shields.io/npm/v/memory-eternal" alt="npm" />
-  <img src="https://img.shields.io/badge/release-v0.40.0-FF7A45" alt="release" />
+  <img src="https://img.shields.io/badge/release-v0.40.1-FF7A45" alt="release" />
   <img src="https://img.shields.io/badge/license-MIT-blue" alt="license" />
 </p>
 
